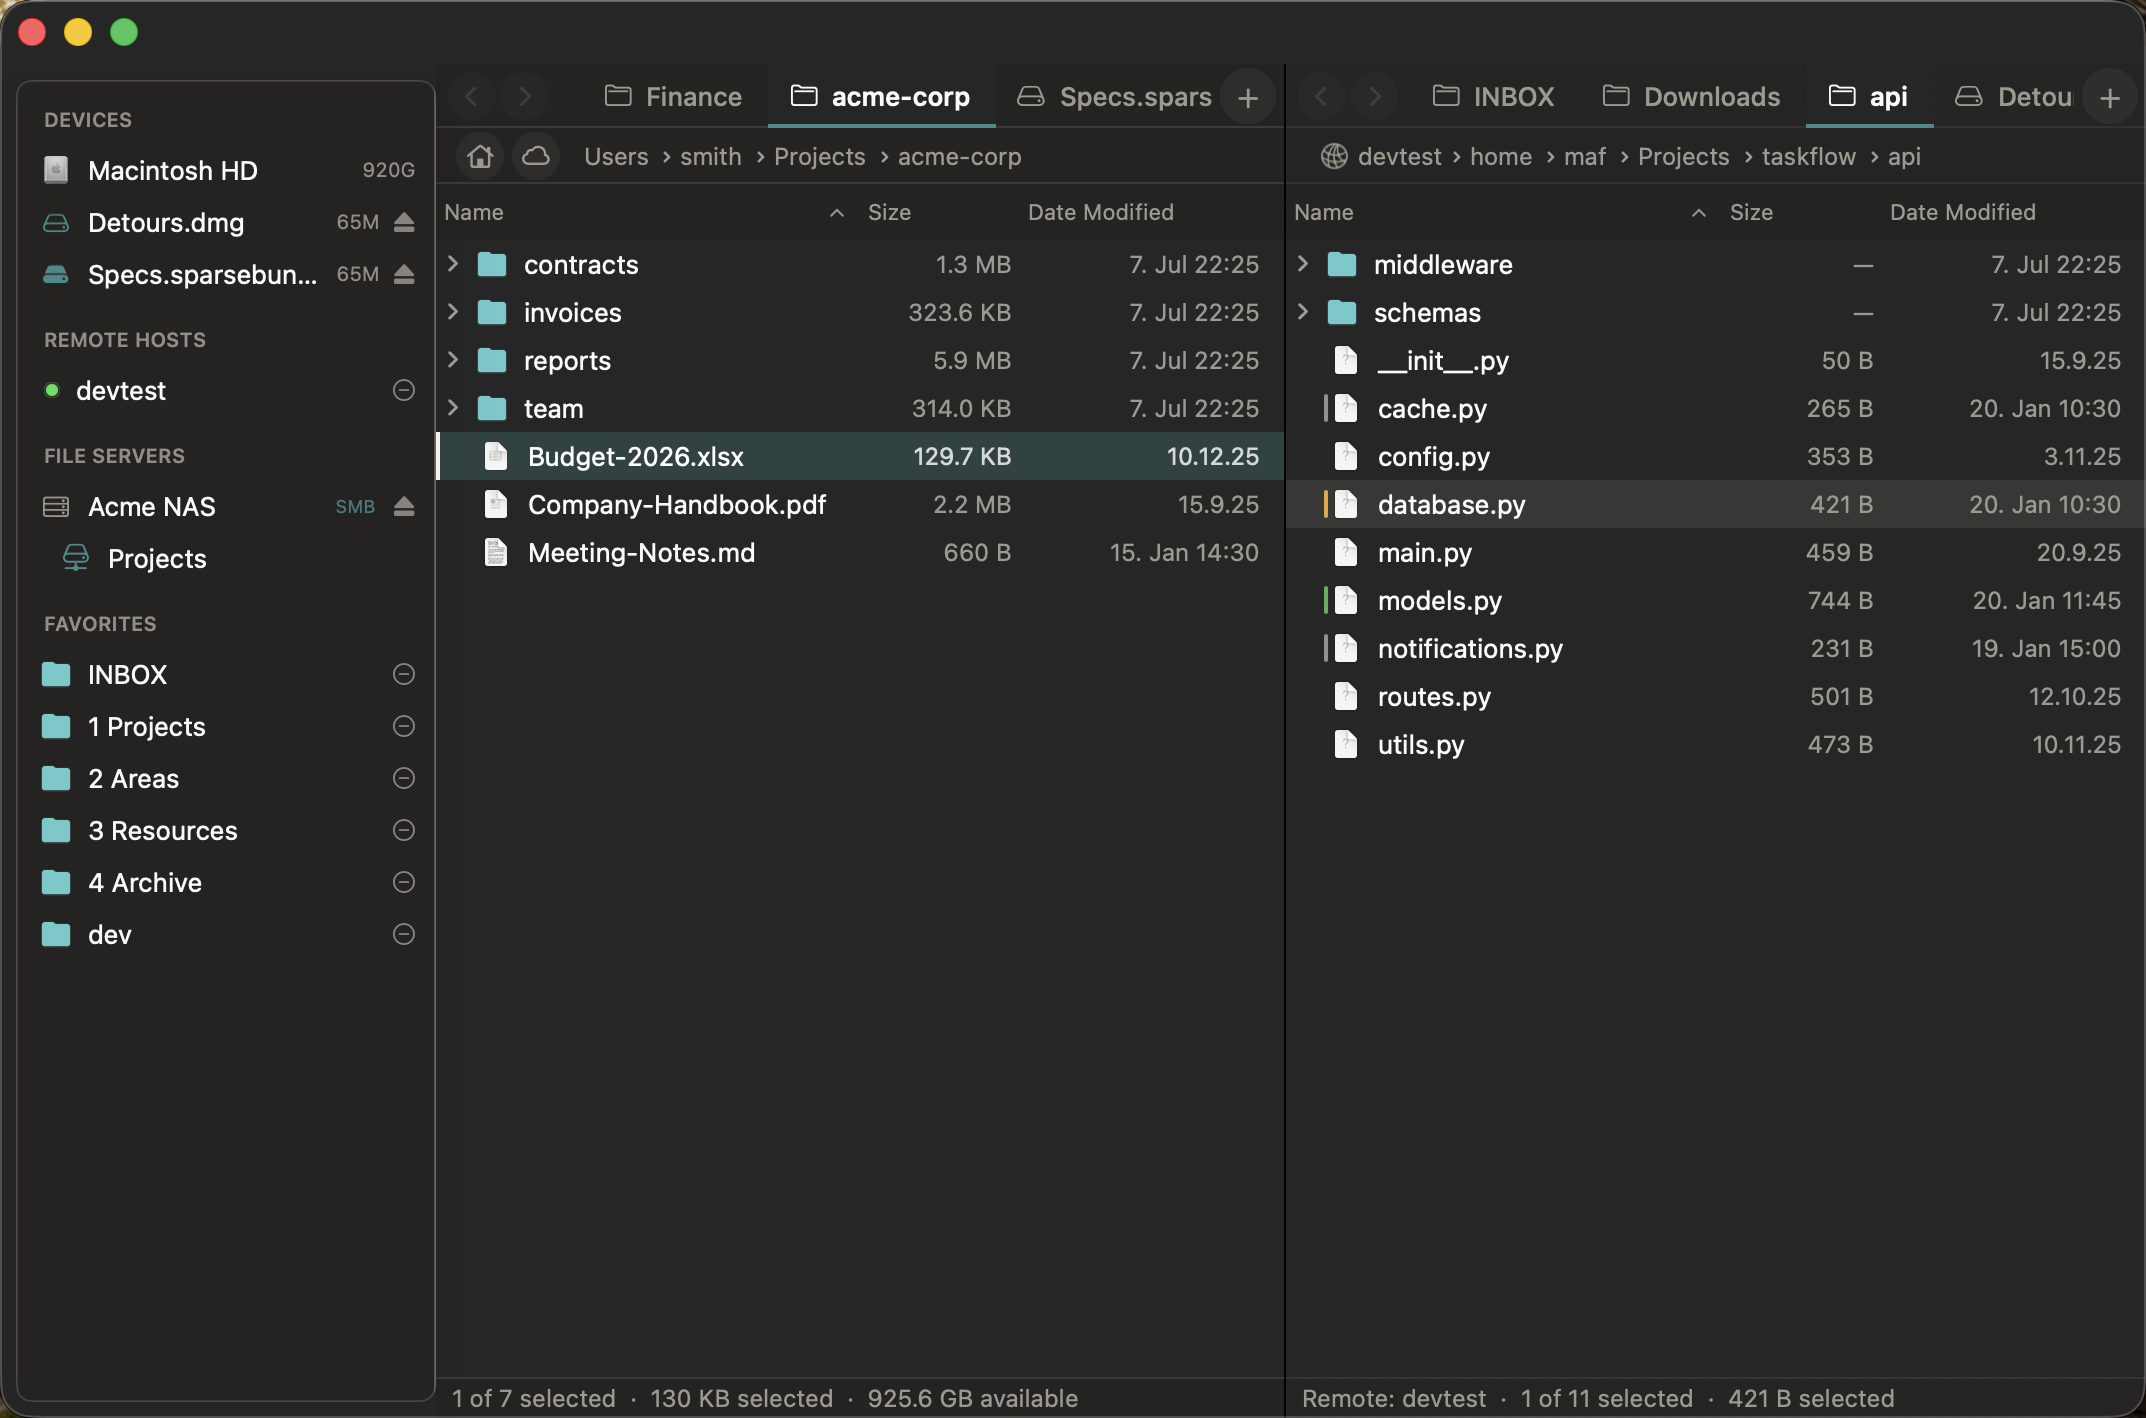
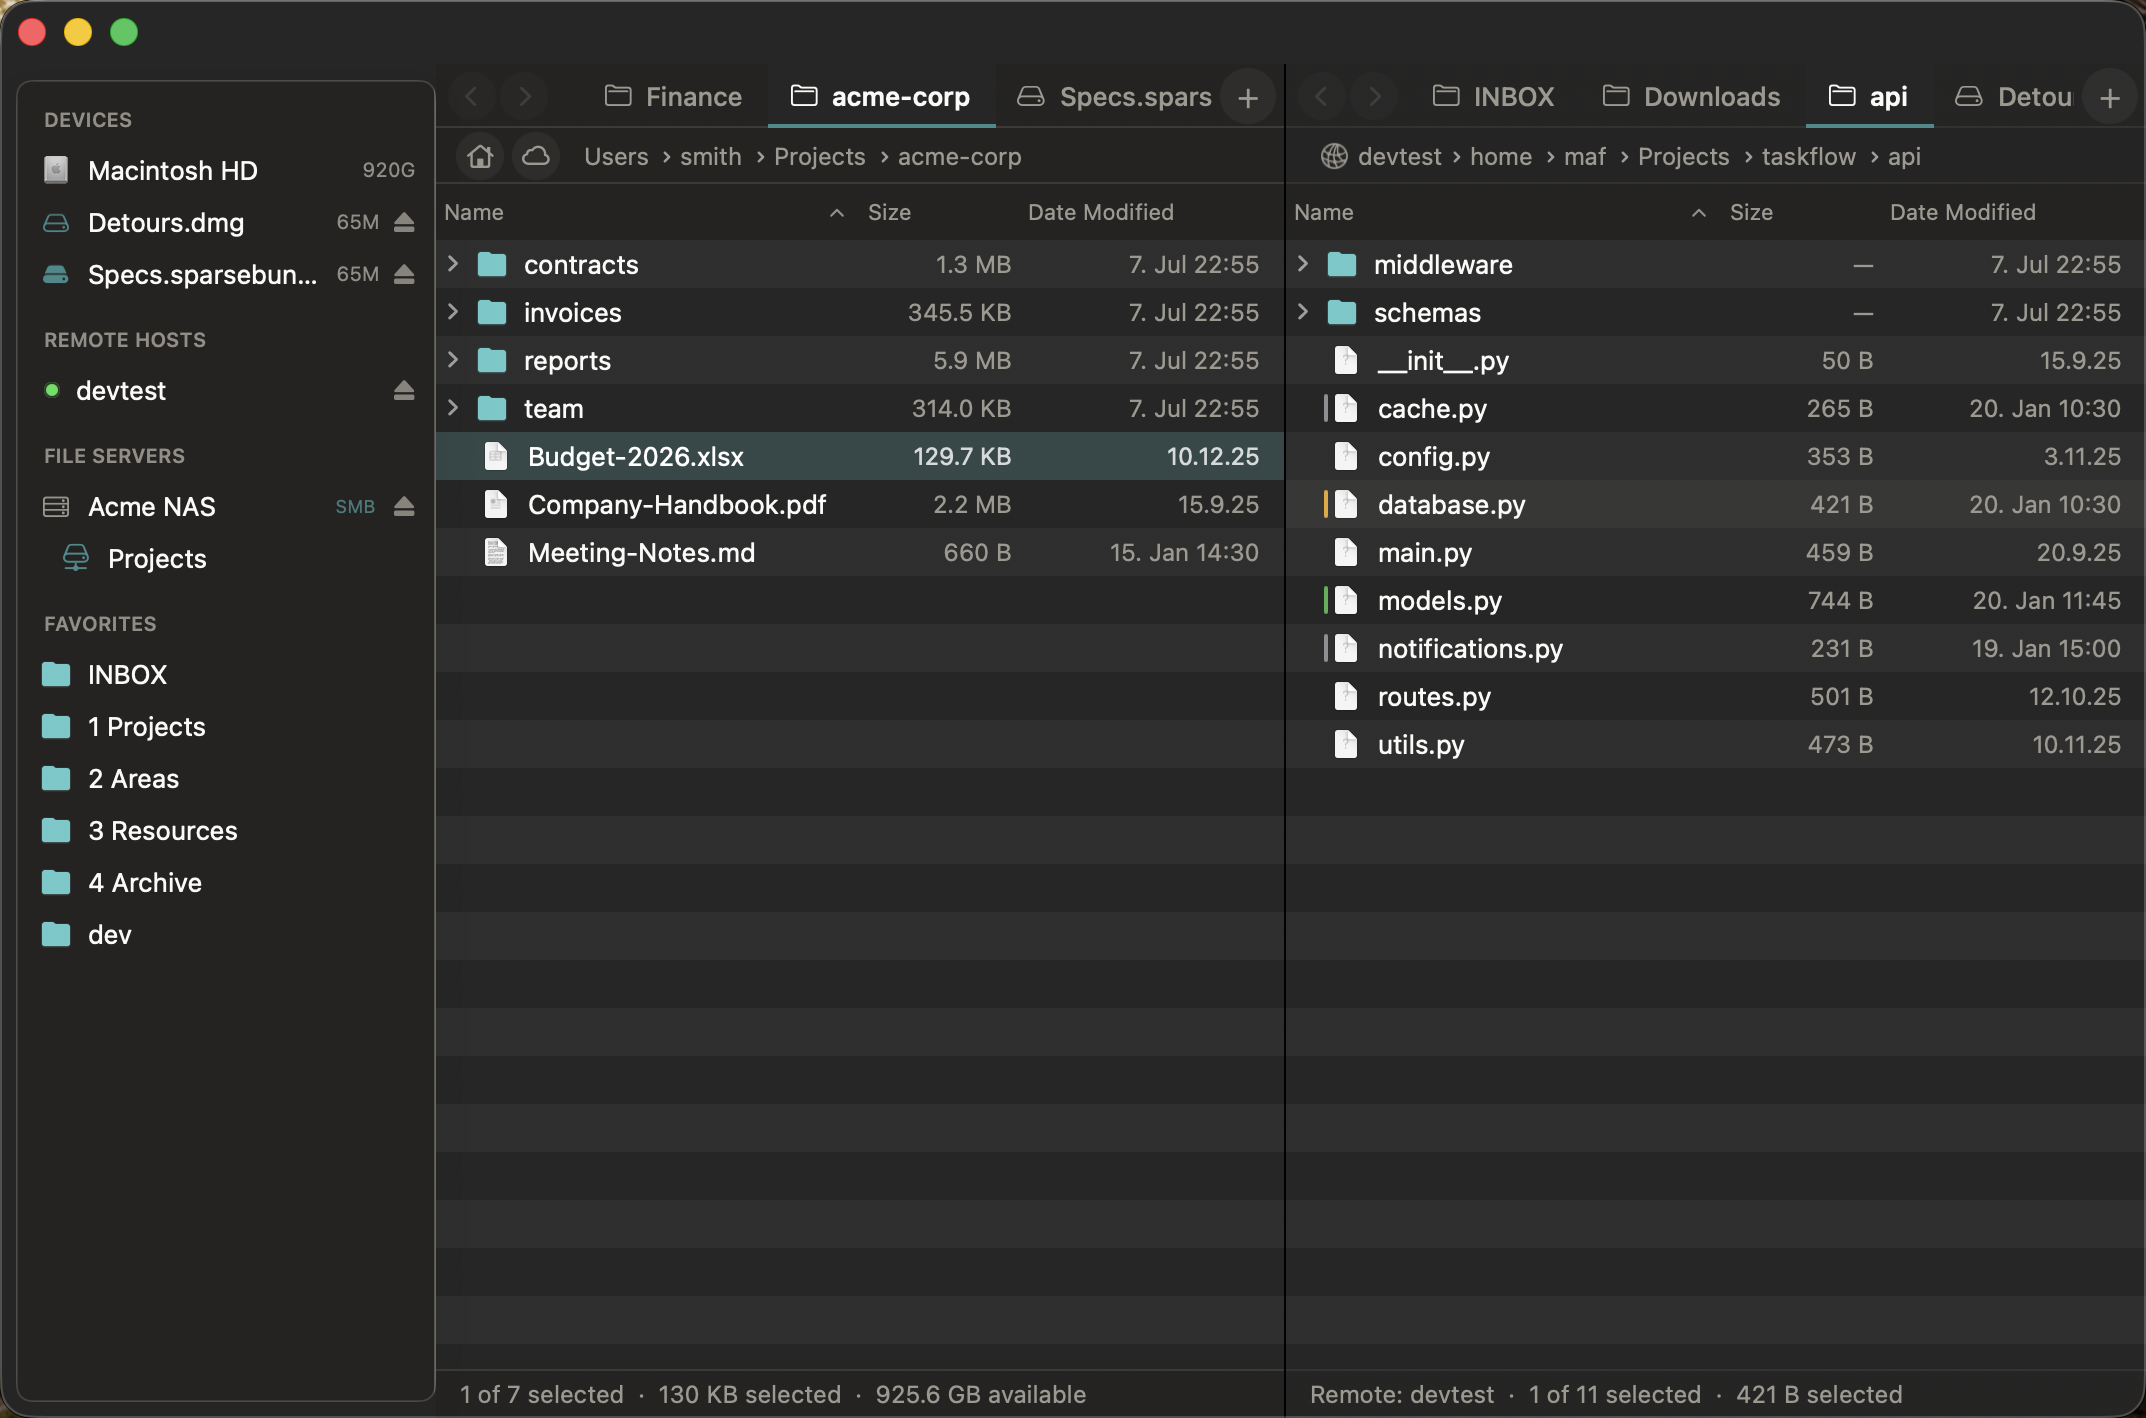
Refresh chrome polish visual evidence

Changed region(s): [[0.5932, 0.9619, 0.8742, 0.9929], [0.2185, 0.9619, 0.4995, 0.9929]]

diff --git a/resources/specs/260707-chrome-polish.md b/resources/specs/260707-chrome-polish.md
@@ -219,13 +219,13 @@ Populated at implement time - one entry per task ID with what got built and how 
 - **T4** Updated initial table setup and the `NSOutlineViewDelegate` row-height callback to read `SettingsManager.shared.fileListRowDensity.rowHeight`. `resources/scripts/build.sh` passed.
 - **T5** Replaced `FileListCell` fixed icon, overlay accessory, git marker, and text center constraints with mutable density-backed constraints. Compact keeps the previous 16 pt icon, 12/11 pt accessories, 14 pt git marker, 4 pt overlay offset, and centered text. `resources/scripts/build.sh` passed.
 - **T6** Updated `FileListViewController.handleSettingsChange()` to preserve selected `FileItem` references and folder expansion state, apply changed density row heights, invalidate row heights, reload visible rows, and restore table keyboard focus when it had focus before the settings refresh. `resources/scripts/build.sh` passed.
-- **T7** Removed alternating file-list background bands, kept a flat themed background, and moved row feedback into `InactiveHidingRowView` with theme-aware hover, active selection, inactive selection, and drop-target fills plus an active accent rail. `resources/scripts/build.sh` passed.
+- **T7** Restored subtle file-list background bands, kept them theme-aware across filled and empty rows, and moved row feedback into `InactiveHidingRowView` with theme-aware hover, active selection, inactive selection, and drop-target fills without a selected-row side rail. `resources/scripts/build.sh` passed.
 - **T8** Added density metrics for icon leading, disclosure width, rename editor sizing, and loading spinners; wired rename placement, disclosure centering, async folder spinner placement, git marker leading, name gap, and iCloud/symlink/lock overlay sizes/offsets to those metrics. `resources/scripts/build.sh` passed.
 - **T9** Tuned pane tab surfaces, nav-control tinting, tab spacing, active/inactive text emphasis, hover fills, and file-drop highlights while keeping SF Symbol back/forward controls and a single flat accent underline for selected tabs. `resources/scripts/build.sh` passed.
 - **T10** Added a themed path strip and separator under the tab bar, anchored home/iCloud/path controls inside it, retuned path spacing, made breadcrumb text use the themed UI font, and refreshed path/reconnect/control colors when themes or active pane state change. `resources/scripts/build.sh` passed.
-- **T11** Added active-pane status bar rendering with themed active/inactive backgrounds, border and text emphasis, preserved progress/error/completion modes, and prepended remote host context to existing status text for remote tabs. `resources/scripts/build.sh` passed.
+- **T11** Added active-pane status bar rendering with themed active/inactive backgrounds, border and text emphasis, preserved progress/error/completion modes, prepended remote host context to existing status text for remote tabs, and increased the status bar height/insets so the footer text is not cramped. `resources/scripts/build.sh` passed.
 - **T12** Retuned sidebar row heights, theme-aware row hover/selection, section-header typography, item fonts, capacity text, protocol badge colors, remote status-dot contrast, network child indentation, and eject accessory alignment/tinting while preserving existing sections and actions. `resources/scripts/build.sh` passed.
-- **T13** Added sidebar item semantics for mounted sparse bundles, mounted disk images, mounted file server shares, local devices, remote hosts, and favorites: type-specific icons/tints where Detours can infer the type, context tooltips, accessibility labels, eject labels for mounted volumes/servers, remove labels for remote hosts, and visible favorite remove accessories. On Foundry, `DETOURS_BUILD_FORCE_QUIT=1 DETOURS_BUILD_SKIP_RELAUNCH=1 resources/scripts/build.sh` passed and `sudo launchctl asuser 501 open -g /Applications/Detours.app` relaunched Detours.
+- **T13** Added sidebar item semantics for mounted sparse bundles, mounted disk images, mounted file server shares, local devices, remote hosts, and favorites: type-specific icons/tints where Detours can infer the type, context tooltips, accessibility labels, eject labels and eject icons for mounted volumes/servers and remote hosts, while favorite rows keep their clean navigation-only presentation. On Foundry, `DETOURS_BUILD_FORCE_QUIT=1 DETOURS_BUILD_SKIP_RELAUNCH=1 resources/scripts/build.sh` passed and `sudo launchctl asuser 501 open -g /Applications/Detours.app` relaunched Detours.
 - **T14** Rendered `resources/docs/detours-chrome-concept.html` on Foundry with `qlmanage -t -s 1800` and saved the inspected 1800 x 1800 PNG as `resources/docs/detours-chrome-concept-reference.png`.
 - **T15** Extended the Foundry screenshot setup to recreate and mount fixture-owned `Specs.sparsebundle` and `Detours.dmg` volumes, added those mounted volumes as browseable screenshot tabs while preserving the local left pane and remote right pane, kept screenshot-only file server injection, documented the Foundry flow and SSH relaunch fallback, and removed legacy split geometry writes from the screenshot configurator. `bash -n` and `git diff --check` passed. On Foundry, `DETOURS_BUILD_FORCE_QUIT=1 DETOURS_BUILD_SKIP_RELAUNCH=1 resources/scripts/build.sh --screenshot-fixtures`, `resources/scripts/screenshot-setup.sh`, `ssh devtest 'bash -s' < resources/scripts/screenshot-setup.sh`, and `DETOURS_SCREENSHOT_SKIP_RELAUNCH=1 resources/scripts/screenshot-configure.sh` passed; `/Volumes/Specs.sparsebundle` and `/Volumes/Detours.dmg` were mounted, the pane/remote/file-server defaults were written, and Detours relaunched via `sudo launchctl asuser`.
 - **T16** On Foundry, `DETOURS_BUILD_FORCE_QUIT=1 DETOURS_BUILD_SKIP_RELAUNCH=1 resources/scripts/build.sh` passed with a clean release build, app bundle creation, codesign, stale-install check, and install to `/Applications`; Detours then relaunched via `sudo launchctl asuser`.
@@ -235,7 +235,7 @@ Populated at implement time - one entry per task ID with what got built and how 
 - **T22** Added `FileListCellTests.testCompactDensityMatchesCurrentLayout` for the real compact cell icon and text alignment frames inside a 24 pt row. The first Foundry run exposed an AppKit `NSTextField` alignment-rect inset in the assertion; after asserting the constrained alignment rect, `swift test --filter FileListCellTests/testCompactDensityMatchesCurrentLayout` passed on Foundry: 1 test, 0 failures.
 - **T23** Added `FileListCellTests.testDensityLayoutsDoNotOverlapAccessories` for all densities, covering expanded disclosure spacing, the main icon, git rail, each iCloud/symlink/lock accessory case, name text, and size/date metadata cells. Fixed the expanded-file lock overlay to stay inside the icon when a git rail is visible so the lock does not collide with the rail. On Foundry, `swift test --filter FileListCellTests` passed: 2 tests, 0 failures; `DETOURS_BUILD_FORCE_QUIT=1 DETOURS_BUILD_SKIP_RELAUNCH=1 resources/scripts/build.sh` passed and Detours relaunched via `sudo launchctl asuser`.
 - **T24** Added `SidebarTests.testMountedVolumeAccessoryLabels` for mounted sparse bundle, mounted disk image, mounted network share, discovered file server with mounted shares, and synthetic mounted file server rows. On Foundry, `swift test --filter SidebarTests/testMountedVolumeAccessoryLabels` passed: 1 test, 0 failures.
-- **T25** Added `ThemeTests.testChromeContrastForBuiltInAndCustomThemes` covering built-in themes plus high-contrast and restrained custom fixtures for normal, hover, selected, inactive-pane, header/status/sidebar text, and selection rail contrast. Added shared contrast helpers, selected-row foreground selection, readable inactive chrome text, selected sidebar foreground propagation, and adjusted built-in tertiary/sidebar colors to meet the thresholds. On Foundry, `swift test --filter ThemeTests/testChromeContrastForBuiltInAndCustomThemes` passed: 1 test, 0 failures; `DETOURS_BUILD_FORCE_QUIT=1 DETOURS_BUILD_SKIP_RELAUNCH=1 resources/scripts/build.sh` passed and Detours relaunched via `sudo launchctl asuser`.
+- **T25** Added `ThemeTests.testChromeContrastForBuiltInAndCustomThemes` covering built-in themes plus high-contrast and restrained custom fixtures for normal, hover, selected, inactive-pane, header/status/sidebar text, and non-text state indicator contrast. Added shared contrast helpers, selected-row foreground selection, readable inactive chrome text, selected sidebar foreground propagation, and adjusted built-in tertiary/sidebar colors to meet the thresholds. On Foundry, `swift test --filter ThemeTests/testChromeContrastForBuiltInAndCustomThemes` passed: 1 test, 0 failures; `DETOURS_BUILD_FORCE_QUIT=1 DETOURS_BUILD_SKIP_RELAUNCH=1 resources/scripts/build.sh` passed and Detours relaunched via `sudo launchctl asuser`.
 - **T26** Added `ChromePolishUITests.testQuickNavStillOpensFromCommandP` to launch local and connected fake-remote UI-test sessions, open Quick Nav with the actual Command-P shortcut, verify the local and remote scope headers, and confirm existing reveal/selection behavior for `unique-in-B.txt`. On Foundry, `resources/scripts/uitest.sh ChromePolishUITests/testQuickNavStillOpensFromCommandP` passed: 1 UI test, 0 failures.
 - **T27** Added a stable accessibility identifier for the Appearance file-list density picker and `ChromePolishUITests.testRowDensityPickerAppliesAndPersists`, which sets Compact, measures an open file-list row, switches to Spacious through Preferences, verifies the open row height increases while selection is preserved, relaunches, verifies the larger row height persists, and resets to Compact. On Foundry, `resources/scripts/uitest.sh ChromePolishUITests/testRowDensityPickerAppliesAndPersists` passed: 1 UI test, 0 failures.
 - **T28** Added stable identifiers for pane back, forward, new-tab, and path controls plus `ChromePolishUITests.testPaneChromePreservesNavigation`, which navigates into `FolderB`, returns through a path crumb, verifies back/forward history, opens a second tab, switches with Command-1/Command-2, and closes the active tab. On Foundry, `resources/scripts/uitest.sh ChromePolishUITests/testPaneChromePreservesNavigation` passed: 1 UI test, 0 failures.
@@ -243,6 +243,6 @@ Populated at implement time - one entry per task ID with what got built and how 
 - **T30** Added a UI-test appearance-settings command seam and `ChromePolishUITests.testNoTextOverlapAcrossDensitiesAndThemes`, covering font sizes 10 through 16, Compact/Comfortable/Spacious densities, and the System, Light, Dark, Foolscap, and Drafting built-in themes. The initial XCUITest-side accessibility frame scan was interrupted because it was too slow for 105 combinations; the audit now runs in-process over visible `NSTextField` and `NSPathControl` chrome frames plus the sidebar background surface and returns the result to the UI test. Foundry compile failures in the first AppKit accessibility implementation were fixed by auditing concrete AppKit views. A live visual check during the test run exposed the sidebar rendering as black under multiple themes because it used the system `.sidebar` visual-effect material; the sidebar now pins its layer background to Detours' themed surface and T30 verifies that surface. On Foundry, `resources/scripts/uitest.sh ChromePolishUITests/testNoTextOverlapAcrossDensitiesAndThemes` passed: 1 UI test, 0 failures.
 - **T31** Added `ChromePolishScreenshotTests.testCaptureChromePolishScreenshots` and runner support to stage local plus `devtest` screenshot fixtures, configure Dark theme, capture selected-row left-active and right-active Detours window PNGs, and copy the sandboxed XCTest captures into `resources/docs/`. On Foundry, `DETOURS_UI_TEST_SCREENSHOT_FIXTURES=1 DETOURS_UI_TEST_SCREENSHOT_REMOTE_FIXTURES=1 DETOURS_SCREENSHOT_THEME=dark DETOURS_SCREENSHOT_CAPTURE_THEME=dark DETOURS_SCREENSHOT_CAPTURE_DIR=resources/docs resources/scripts/uitest.sh ChromePolishScreenshotTests/testCaptureChromePolishScreenshots` passed and produced `resources/docs/chrome-polish-dark-left-active.png` and `resources/docs/chrome-polish-dark-right-active.png`, both 2146 x 1418.
 - **T32** Reused the screenshot capture flow with Light theme. The first visual pass exposed the sidebar still rendering as a black system material in Light while the main panes were light; replacing the sidebar root `NSVisualEffectView` with a plain layered theme-painted `NSView` fixed the surface. On Foundry, `resources/scripts/uitest.sh ChromePolishUITests/testNoTextOverlapAcrossDensitiesAndThemes` passed after the fix, then `DETOURS_UI_TEST_SCREENSHOT_FIXTURES=1 DETOURS_UI_TEST_SCREENSHOT_REMOTE_FIXTURES=1 DETOURS_SCREENSHOT_THEME=light DETOURS_SCREENSHOT_CAPTURE_THEME=light DETOURS_SCREENSHOT_CAPTURE_DIR=resources/docs resources/scripts/uitest.sh ChromePolishScreenshotTests/testCaptureChromePolishScreenshots` passed and produced `resources/docs/chrome-polish-light-left-active.png` and `resources/docs/chrome-polish-light-right-active.png`, both 2146 x 1418.
-- **T33** Compared the four generated app screenshots against `resources/docs/detours-chrome-concept.html` and `resources/docs/detours-chrome-concept-reference.png`. The app screenshots preserve the approved direction: edge-to-edge sidebar, flat single-color tab underline, no rounded tab caps, stronger selected-row treatment on the active pane with calmer inactive selection, mounted sparse bundle / disk image / file server eject affordances, remote host context in breadcrumb/status surfaces, and no duplicate Quick Nav button.
+- **T33** Compared the four generated app screenshots against `resources/docs/detours-chrome-concept.html` and `resources/docs/detours-chrome-concept-reference.png`. The app screenshots preserve the approved direction: edge-to-edge sidebar, restored banded file-list rows, flat single-color tab underline, no rounded tab caps, stronger selected-row treatment without a side rail, mounted sparse bundle / disk image / file server / remote host eject affordances, remote host context in breadcrumb/status surfaces, roomier status bars, and no duplicate Quick Nav button.
 - **A1-A9** Accepted through the completed unit/UI coverage: T17-T25 cover defaults, persistence, density metrics/layout, sidebar labels, and chrome contrast; T26-T30 cover Quick Nav, density persistence, pane navigation, mounted-volume eject visibility, and no text overlap across themes/densities/font sizes.
 - **A10** Accepted through T31-T33 Foundry screenshots covering Dark and Light, local browsing, remote browsing, mounted sparse bundle, mounted disk image, file server row, and active left/right pane states.
